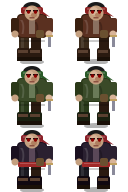
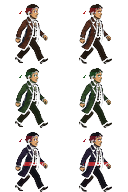
Integrate user Joseph Smith sprite sheet and restyle cast
Slice the provided sheet into transparent PNG frames (idle/walk/jump/crouch-pray/speak-throw/portraits), wire drawJoseph to those cells with facing flip, and derive brigand/scout/thug/boss/wolf art from the same silhouette and coat language. Title uses a portrait icon; cache-bust ?v=20.

diff --git a/js/sprites.js b/js/sprites.js
@@ -91,11 +91,19 @@ const SHEETS = {
   foes: null,
   wolf: null,
   bosses: null,
+  portraits: null,
 };
 let sheetsReady = false;
 let sheetsLoading = false;
 
-const JOSEPH_FRAMES = { idle: 0, walk: 1, jump: 2, crouch: 3, throw: 4 };
+/** User sheet slices: idle 0-2, walk 3-6, jump 7, crouch/pray 8, throw/speak 9-10 */
+const JOSEPH_FW = 64;
+const JOSEPH_FH = 64;
+const JOSEPH_IDLE = [0, 1, 2];
+const JOSEPH_WALK = [3, 4, 5, 6];
+const JOSEPH_JUMP = 7;
+const JOSEPH_CROUCH = 8;
+const JOSEPH_THROW = [9, 10];
 const FOE_ROWS = { brigand: 0, scout: 1, thug: 2 };
 const BOSS_ROWS = { ringleader: 0, sentinel: 1, captain: 2, warden: 3, overseer: 4 };
 
@@ -130,7 +138,9 @@ export function preloadSprites() {
                 ? 'foes.png'
                 : key === 'wolf'
                   ? 'wolf.png'
-                  : 'bosses.png';
+                  : key === 'portraits'
+                    ? 'portraits.png'
+                    : 'bosses.png';
           img.src = assetUrl(file);
         })
     )
@@ -202,8 +212,8 @@ function blitSimple(ctx, img, sx, sy, sw, sh, dx, dy, dw, dh, flip, flash) {
   return true;
 }
 
-// ── Joseph Smith (32×64 slot; sheet frames 64×64) ──
-export function drawJoseph(ctx, x, y, facing, frame, attacking, jumping = false, crouching = false) {
+// ── Joseph Smith (32×64 hitbox; sheet cells 64×64 from user art) ──
+export function drawJoseph(ctx, x, y, facing, frame, attacking, jumping = false, crouching = false, moving = false) {
   const ox = Math.floor(x);
   const oy = Math.floor(y);
   const flip = facing < 0;
@@ -211,16 +221,34 @@ export function drawJoseph(ctx, x, y, facing, frame, attacking, jumping = false,
   if (attacking) pose = 'throw';
   else if (crouching && !jumping) pose = 'crouch';
   else if (jumping) pose = 'jump';
-  else if (frame % 2 === 1) pose = 'walk';
+  else if (moving) pose = 'walk';
 
   const img = SHEETS.joseph;
   if (img) {
-    const fi = JOSEPH_FRAMES[pose] ?? 0;
-    // Sheet frame 64×64; character feet near bottom. Align so feet sit on oy+62.
-    blitSimple(ctx, img, fi * 64, 0, 64, 64, ox - 16, oy, 64, 64, flip, false);
+    let fi = JOSEPH_IDLE[((frame % JOSEPH_IDLE.length) + JOSEPH_IDLE.length) % JOSEPH_IDLE.length];
+    if (pose === 'throw') {
+      fi = JOSEPH_THROW[((frame % JOSEPH_THROW.length) + JOSEPH_THROW.length) % JOSEPH_THROW.length];
+    } else if (pose === 'crouch') {
+      fi = JOSEPH_CROUCH;
+    } else if (pose === 'jump') {
+      fi = JOSEPH_JUMP;
+    } else if (pose === 'walk') {
+      fi = JOSEPH_WALK[((frame % JOSEPH_WALK.length) + JOSEPH_WALK.length) % JOSEPH_WALK.length];
+    }
+    // Feet at bottom of 64 cell → ground at oy + 64 (matches STAND_H)
+    blitSimple(ctx, img, fi * JOSEPH_FW, 0, JOSEPH_FW, JOSEPH_FH, ox - 16, oy, JOSEPH_FW, JOSEPH_FH, flip, false);
     return;
   }
   drawJosephProcedural(ctx, ox, oy, flip, pose);
+}
+
+/** Portrait icon (title / UI). index 0-3 from sheet. */
+export function drawPortrait(ctx, x, y, index = 0, size = 48) {
+  const img = SHEETS.portraits;
+  if (!img) return false;
+  const col = ((index % 4) + 4) % 4;
+  blitSimple(ctx, img, col * 48, 0, 48, 48, Math.floor(x), Math.floor(y), size, size, false, false);
+  return true;
 }
 
 function drawJosephProcedural(ctx, ox, oy, flip, pose) {

diff --git a/index.html b/index.html
@@ -7,7 +7,7 @@
   <meta name="apple-mobile-web-app-capable" content="yes" />
   <link rel="icon" href="favicon.svg" type="image/svg+xml" />
   <title>Joseph Smith — Palmyra Quest</title>
-  <link rel="stylesheet" href="css/style.css?v=19" />
+  <link rel="stylesheet" href="css/style.css?v=20" />
   <script>
     (function () {
       var touch =
@@ -37,6 +37,7 @@
         <div id="ui-title" class="ui-screen" hidden>
           <div class="ui-title-inner">
             <p class="ui-flourish">◆</p>
+            <img class="ui-portrait" src="assets/joseph-portrait.png?v=20" alt="" width="72" height="72" />
             <h1 class="ui-title-name">Joseph Smith</h1>
             <h2 class="ui-title-sub">Palmyra Quest</h2>
             <p class="ui-rule" aria-hidden="true"></p>
@@ -122,6 +123,6 @@
 
     <p id="hint">Arrows / WASD move · ↓ / S duck · Space / Z fling gold plates · Enter start · On phones: virtual stick + A/B</p>
   </div>
-  <script type="module" src="js/main.js?v=19"></script>
+  <script type="module" src="js/main.js?v=20"></script>
 </body>
 </html>

diff --git a/js/game.js b/js/game.js
@@ -11,7 +11,7 @@ import {
 import { updateEnemy, drawEnemy, enemyHitbox, hurtEnemy } from './enemy.js';
 import { createLevel, drawLevelBackground, drawLevelTiles } from './level.js';
 import { updatePlates, drawPlates, plateHitbox } from './projectiles.js';
-import { drawHeart, drawText, drawCentered, drawRect, drawPanel, drawJoseph } from './sprites.js';
+import { drawHeart, drawText, drawCentered, drawRect, drawPanel, drawJoseph, drawPortrait } from './sprites.js';
 
 export function createGame() {
   return {
@@ -255,5 +255,6 @@ function drawTitleScene(ctx, game) {
     drawRect(ctx, 12 + i * 22, 372, 2, 8, '#143018');
     drawRect(ctx, 15 + i * 22, 374, 2, 6, '#1e4020');
   }
-  drawJoseph(ctx, 36, 304, 1, Math.floor(game.titleBlink / 16) % 2, false, false);
+  drawPortrait(ctx, 36, 248, Math.floor(game.titleBlink / 40) % 4, 40);
+  drawJoseph(ctx, 36, 304, 1, Math.floor(game.titleBlink / 20) % 3, false, false, false, false);
 }

diff --git a/js/player.js b/js/player.js
@@ -132,7 +132,7 @@ export function updatePlayer(p, solids, dt) {
     p.animT += dt;
     if (p.animT > 8) {
       p.animT = 0;
-      p.anim = (p.anim + 1) % 2;
+      p.anim = (p.anim + 1) % 4;
     }
   }
 
@@ -182,6 +182,7 @@ export function drawPlayer(ctx, p, camX) {
   if (!p.alive) return;
   if (p.invuln > 0 && Math.floor(p.invuln / 4) % 2 === 0) return;
   const drawY = p.crouching ? p.y - (STAND_H - CROUCH_H) : p.y;
+  const moving = Math.abs(p.vx) > 0.2 * SCALE && p.onGround;
   drawJoseph(
     ctx,
     p.x - camX,
@@ -190,7 +191,8 @@ export function drawPlayer(ctx, p, camX) {
     p.anim,
     p.attackTimer > 0,
     !p.onGround,
-    p.crouching
+    p.crouching,
+    moving
   );
 }
 

diff --git a/css/style.css b/css/style.css
@@ -701,3 +701,16 @@ body.touch-ui {
     font-size: 30px;
   }
 }
+
+.ui-portrait {
+  display: block;
+  width: 72px;
+  height: 72px;
+  margin: 0.35rem auto 0.5rem;
+  image-rendering: pixelated;
+  image-rendering: crisp-edges;
+  border: 2px solid #d4a84b;
+  border-radius: 6px;
+  background: #0a0806;
+  box-shadow: 0 0 12px rgba(212, 168, 75, 0.35);
+}

diff --git a/README.md b/README.md
@@ -68,10 +68,10 @@ js/
   enemy.js          Brigands, scouts, thugs, wolves, bosses
   level.js          Levels 1–5 maps, themes, decor
   input.js          Keyboard + virtual stick / touch mapping
-  sprites.js        Hand-drawn-style pixel sprites (maps + poses)
+  sprites.js        User sheet blit + procedural fallbacks (poses, UI)
   constants.js      Resolution, states, level metadata
   ui.js             HTML overlay menus (title / clear / win / lose)
-assets/             Painterly PNG sprite sheets (joseph, foes, wolf, bosses)
+assets/             User Joseph sheet slices + derived foe/boss/wolf PNGs (joseph, foes, wolf, bosses, portraits)
 ```
 
 ## Tech
